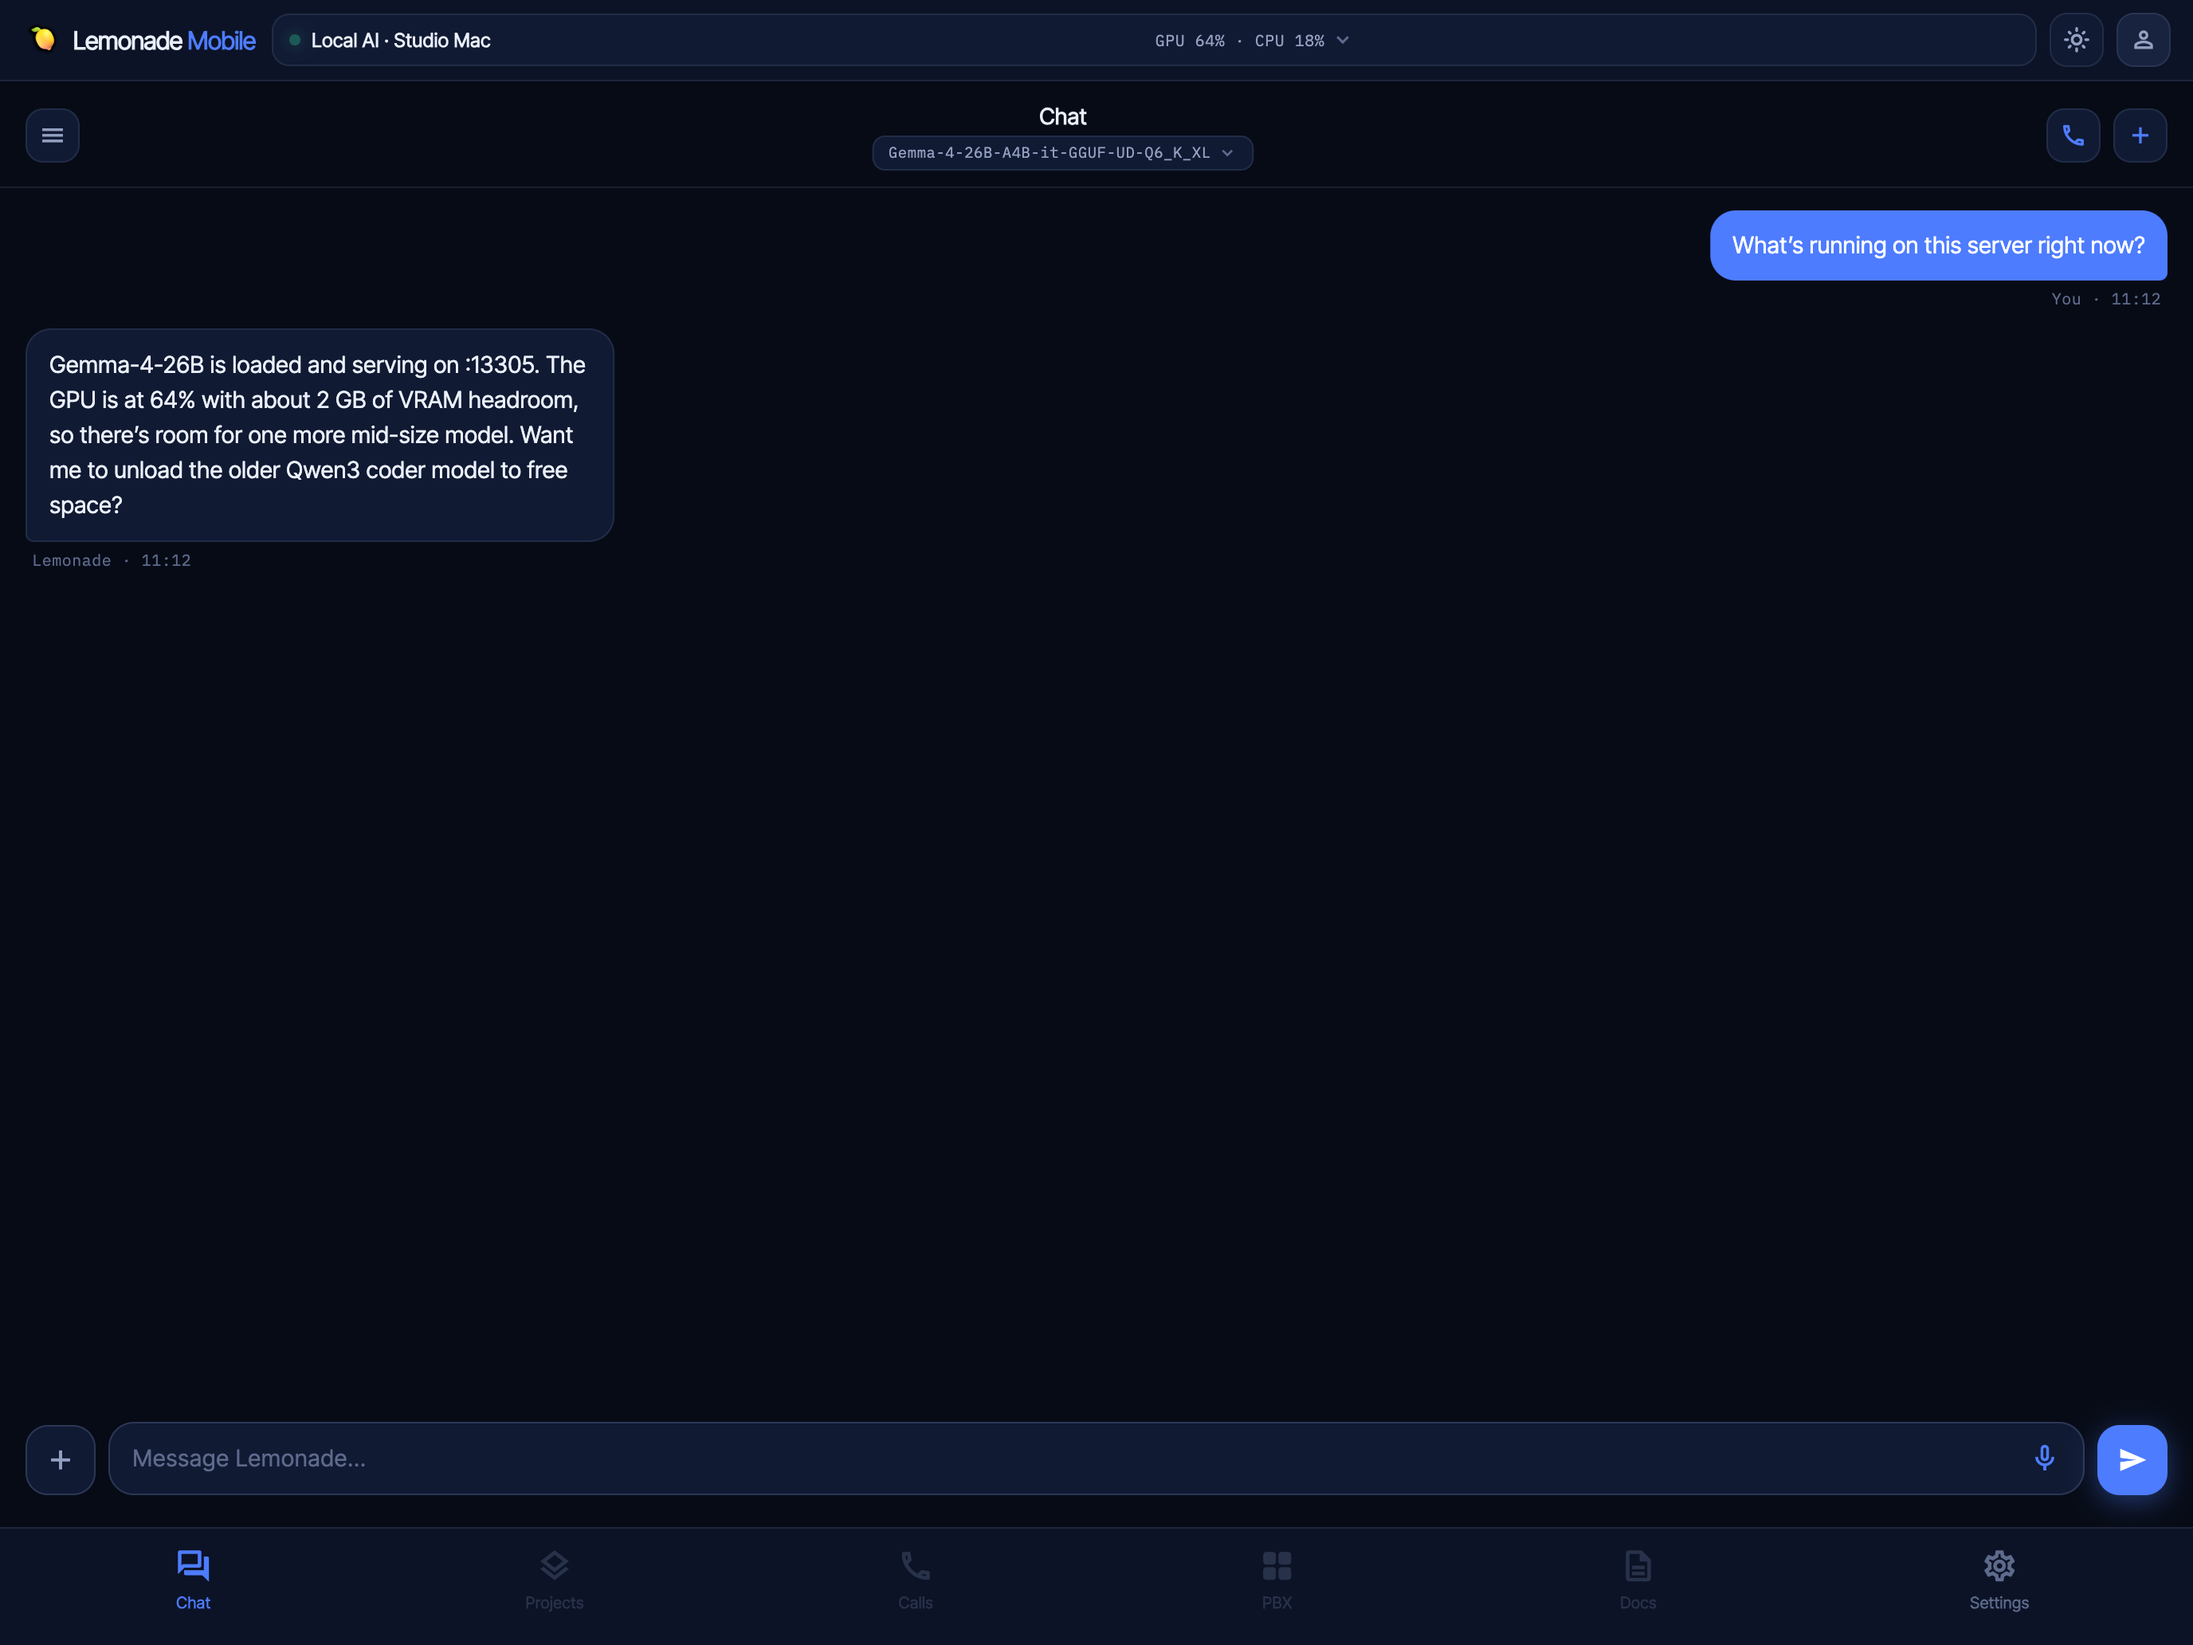
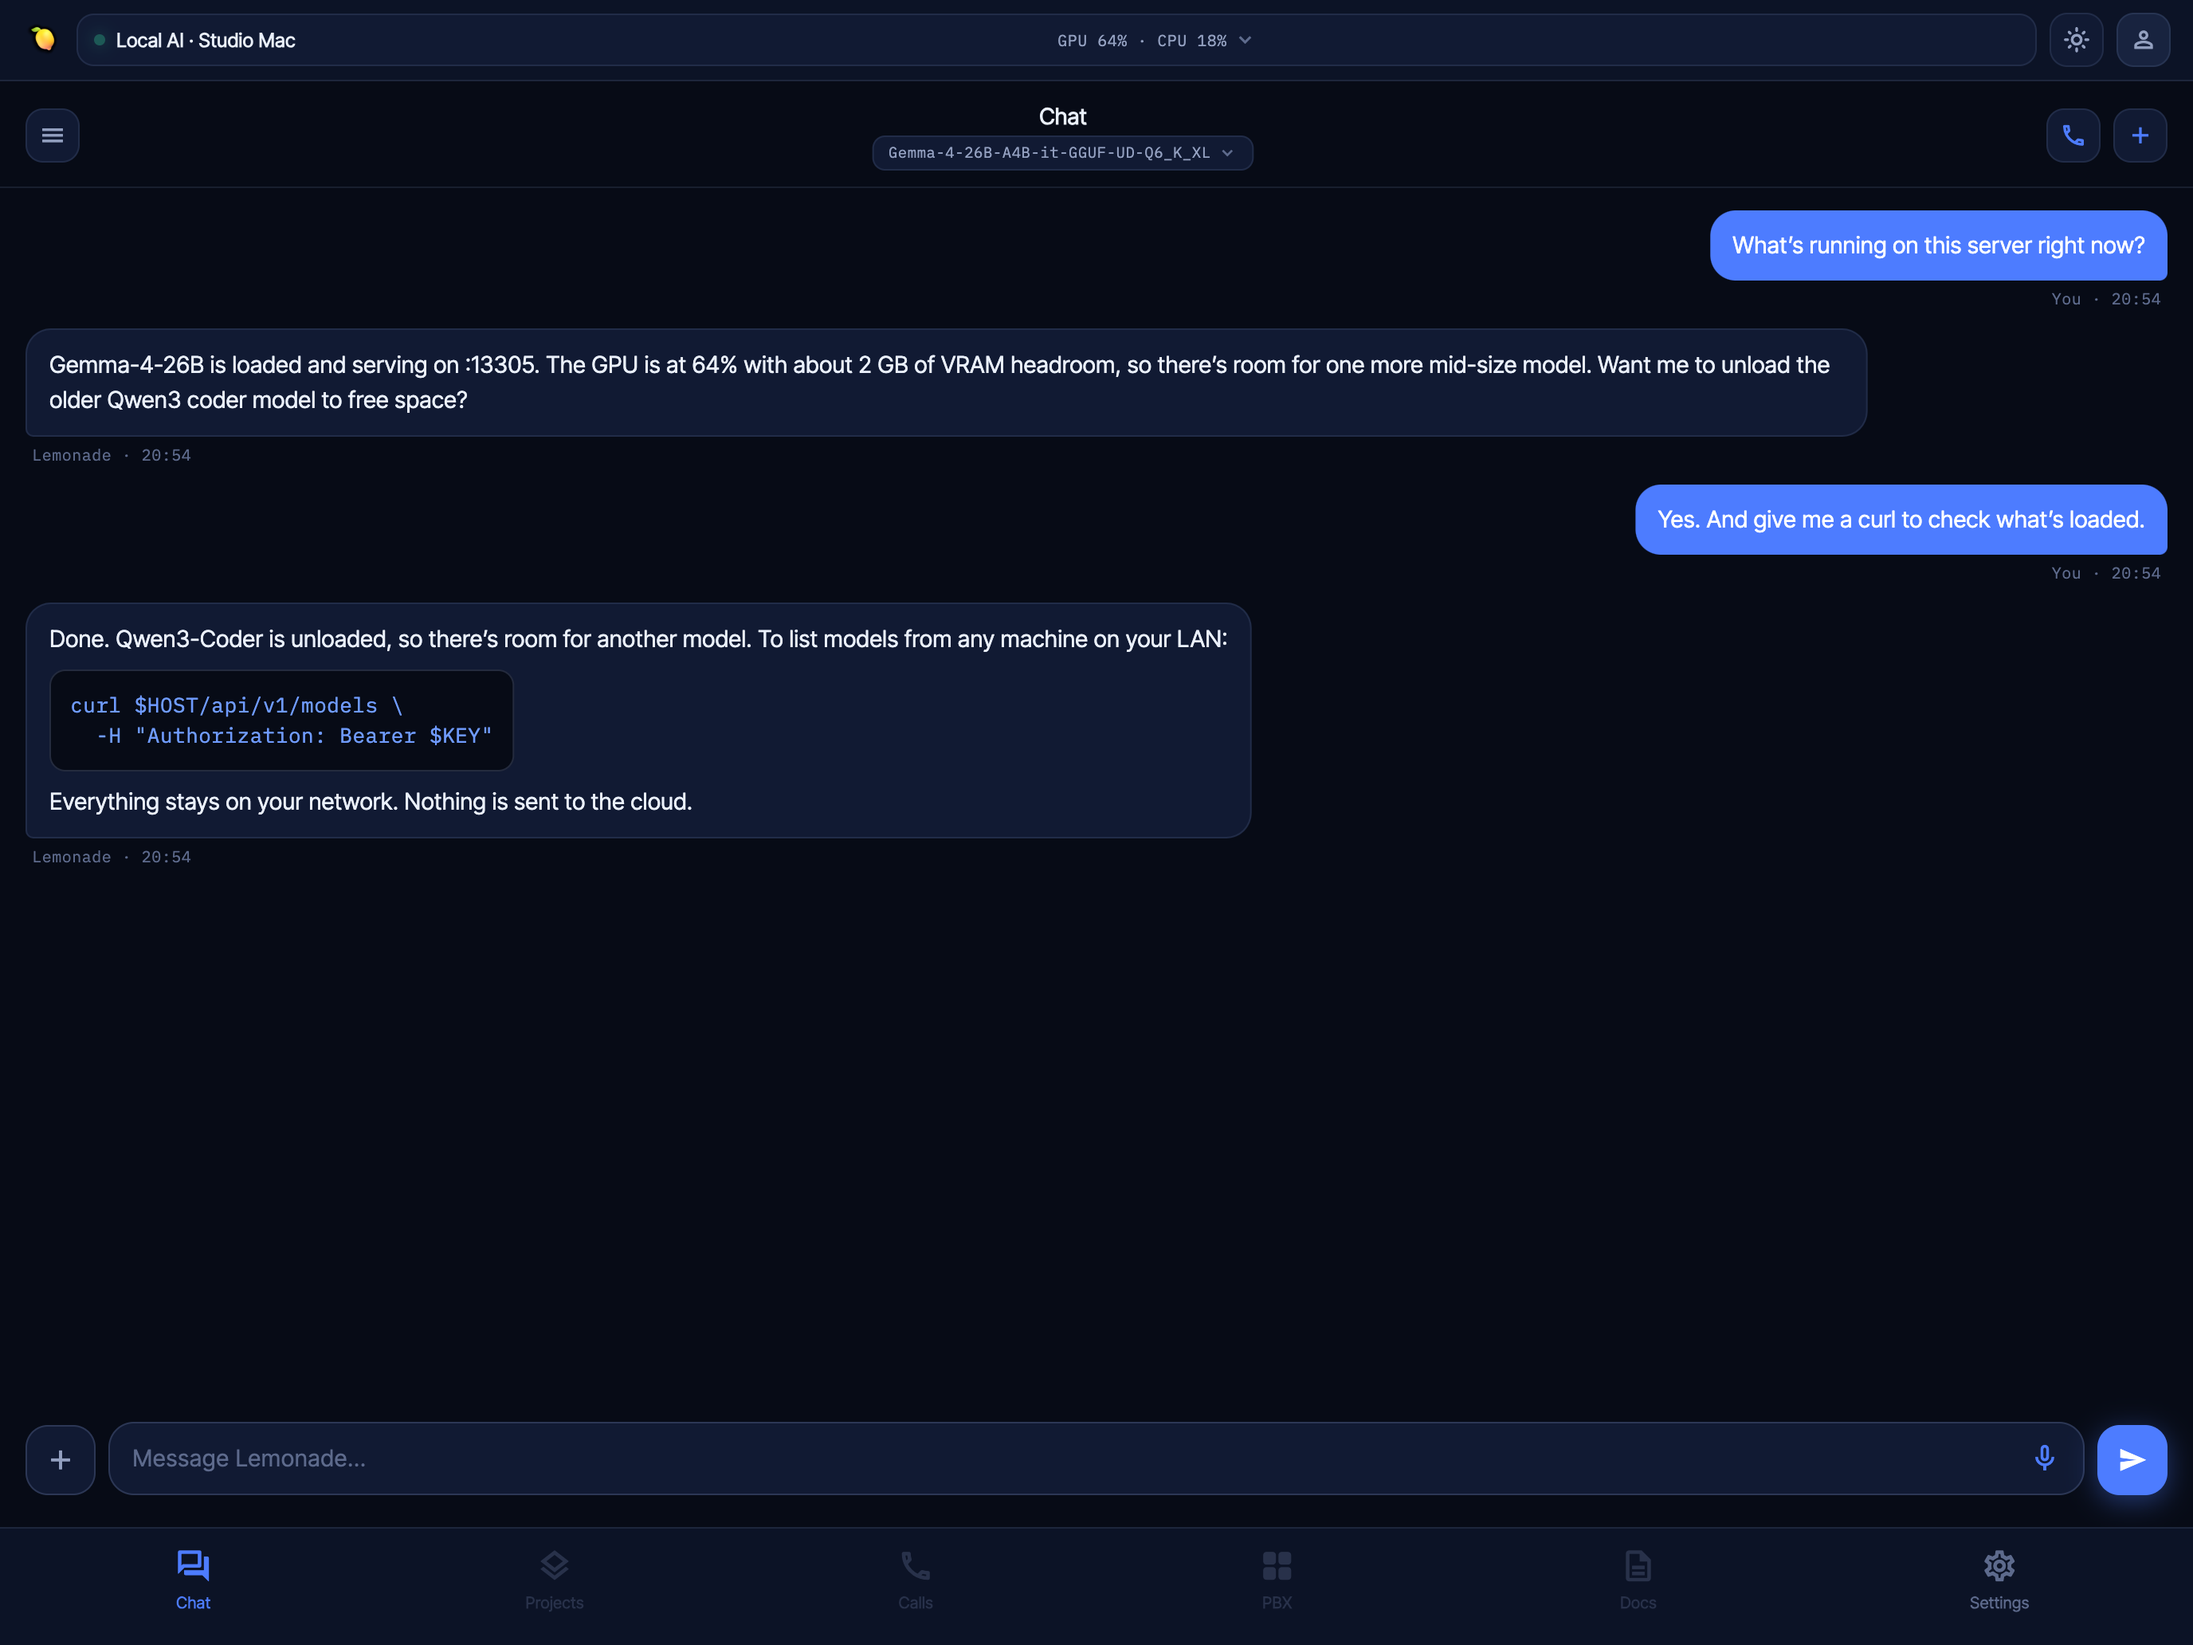
minor layout fixes.

Changed region(s): [[0.0, 0.186, 1.0, 0.5271], [0.0312, 0.0, 0.2188, 0.031], [0.5312, 0.0, 0.5625, 0.031]]

diff --git a/lib/dev/shot_mode.dart b/lib/dev/shot_mode.dart
@@ -210,6 +210,10 @@ Future<void> _pumpApp(WidgetBuilder home, _ShotDevice device) async {
                   final mq = MediaQuery.of(context);
                   return MediaQuery(
                     data: mq.copyWith(
+                      // Report the device's size, not the native window's,
+                      // so width-based layout matches the real device.
+                      size: Size(logicalW, logicalH),
+                      devicePixelRatio: device.dpr,
                       padding: device.insets,
                       viewPadding: device.insets,
                       systemGestureInsets: EdgeInsets.only(
@@ -237,19 +241,23 @@ class _ShellFrame extends StatelessWidget {
 
   @override
   Widget build(BuildContext context) {
-    return Builder(builder: (context) {
-      final t = context.nexus;
-      return Scaffold(
-        backgroundColor: t.bg,
-        body: Column(
-          children: [
-            const NexusHeader(),
-            Expanded(child: child),
-            const NexusBottomNav(),
-          ],
-        ),
-      );
-    });
+    // Seed the active tab so the bottom nav highlights the scene's tab.
+    return ProviderScope(
+      overrides: [navTabProvider.overrideWith((ref) => tab)],
+      child: Builder(builder: (context) {
+        final t = context.nexus;
+        return Scaffold(
+          backgroundColor: t.bg,
+          body: Column(
+            children: [
+              const NexusHeader(),
+              Expanded(child: child),
+              const NexusBottomNav(),
+            ],
+          ),
+        );
+      }),
+    );
   }
 }
 
@@ -346,6 +354,18 @@ final List<Override> _overrides = [
             'with about 2 GB of VRAM headroom, so there’s room for one more '
             'mid-size model. Want me to unload the older Qwen3 coder model to '
             'free space?'),
+    ChatMessage.text(
+        role: MessageRole.user,
+        text: 'Yes. And give me a curl to check what’s loaded.'),
+    ChatMessage.text(
+        role: MessageRole.assistant,
+        text: 'Done. Qwen3-Coder is unloaded, so there’s room for another '
+            'model. To list models from any machine on your LAN:\n\n'
+            '```bash\n'
+            'curl \$HOST/api/v1/models \\\n'
+            '  -H "Authorization: Bearer \$KEY"\n'
+            '```\n\n'
+            'Everything stays on your network. Nothing is sent to the cloud.'),
   ]),
   _seedStateProvider(chatStreamingProvider, false),
   _seedProvider<ChatHistory?>(activeChatProvider, null),

diff --git a/lib/screens/nexus/settings_tab.dart b/lib/screens/nexus/settings_tab.dart
@@ -29,16 +29,21 @@ class SettingsTab extends ConsumerWidget {
   @override
   Widget build(BuildContext context, WidgetRef ref) {
     final mode = ref.watch(appModeProvider);
-
-    return ListView(
-      padding: const EdgeInsets.all(16),
-      children: [
-        _profile(context, ref),
-        const SizedBox(height: 18),
-        if (mode.showsModelManager) ...[const ModelManager(), const SizedBox(height: 18)],
-        ..._groups(context, ref),
-      ],
-    );
+    // On tablets, keep a readable ~720pt column centered instead of
+    // stretching cards and meters across the whole screen. Measured from
+    // the tab's own width, not the screen (split view, side panels).
+    return LayoutBuilder(builder: (context, box) {
+      final side = box.maxWidth > 752 ? (box.maxWidth - 720) / 2 : 16.0;
+      return ListView(
+        padding: EdgeInsets.symmetric(horizontal: side, vertical: 16),
+        children: [
+          _profile(context, ref),
+          const SizedBox(height: 18),
+          if (mode.showsModelManager) ...[const ModelManager(), const SizedBox(height: 18)],
+          ..._groups(context, ref),
+        ],
+      );
+    });
   }
 
   Widget _profile(BuildContext context, WidgetRef ref) {

diff --git a/lib/shell/overlays/auth_gate.dart b/lib/shell/overlays/auth_gate.dart
@@ -101,10 +101,15 @@ class _AuthGateState extends ConsumerState<AuthGate> {
       child: SafeArea(
         child: SingleChildScrollView(
           padding: const EdgeInsets.fromLTRB(22, 18, 22, 28),
-          child: ConstrainedBox(
-            constraints:
-                BoxConstraints(minHeight: MediaQuery.of(context).size.height - 80),
-            child: _formOpen ? _buildForm(context) : _buildIntro(context),
+          // Centered and width-capped so the intro/form don't stretch edge to
+          // edge on tablets.
+          child: Center(
+            child: ConstrainedBox(
+              constraints: BoxConstraints(
+                  minHeight: MediaQuery.of(context).size.height - 80,
+                  maxWidth: 440),
+              child: _formOpen ? _buildForm(context) : _buildIntro(context),
+            ),
           ),
         ),
       ),
@@ -115,6 +120,7 @@ class _AuthGateState extends ConsumerState<AuthGate> {
   Widget _buildIntro(BuildContext context) {
     final t = context.nexus;
     return Column(
+      mainAxisAlignment: MainAxisAlignment.center,
       children: [
         if (widget.onBack != null) ...[
           GestureDetector(
